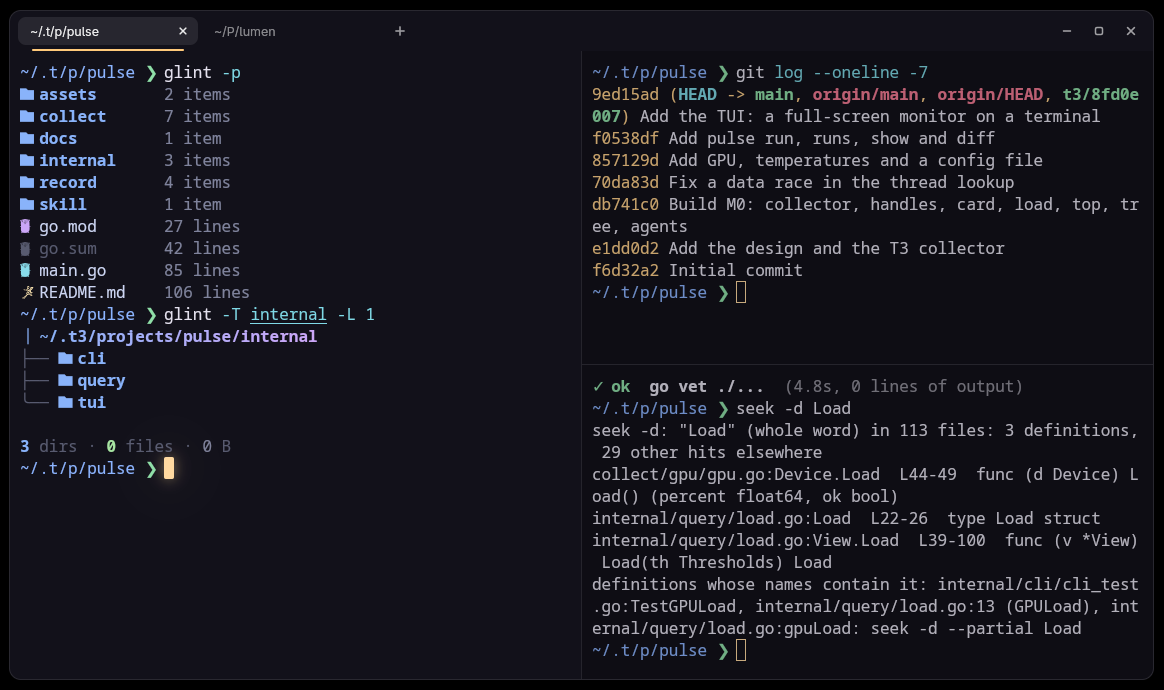
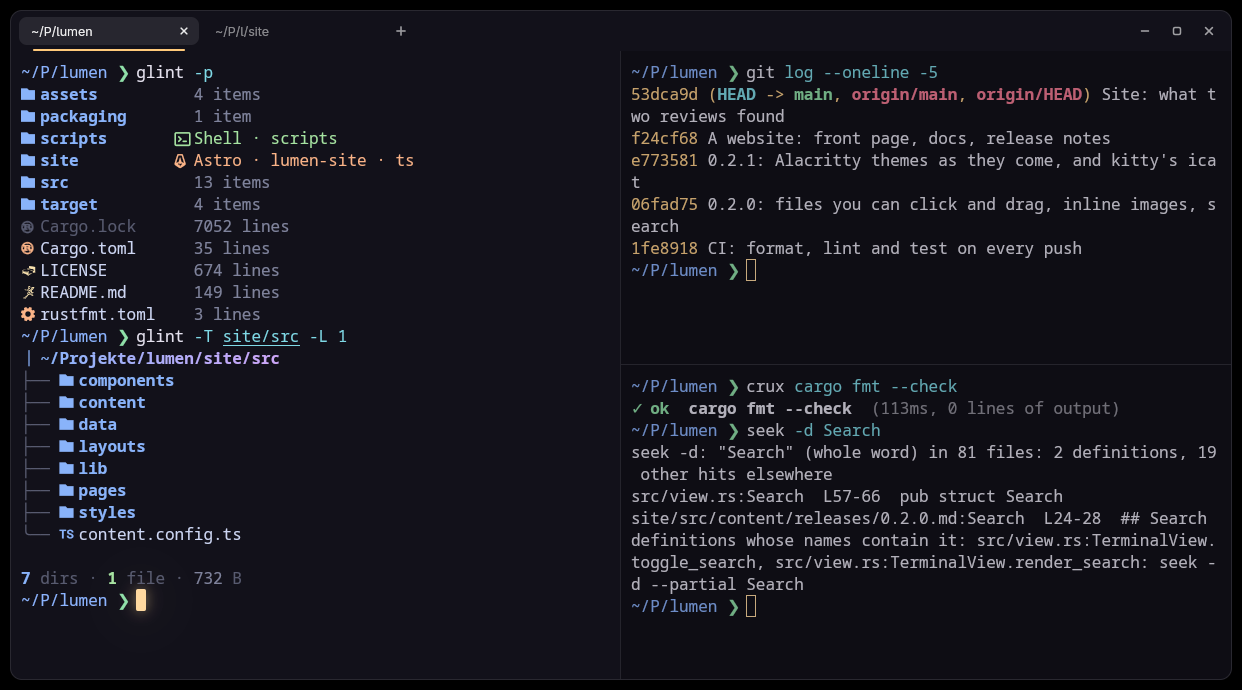
A screenshot taken in lumen's own repo
The picture in the README and on the site showed another project's
folders and commits. This one shows lumen's.

diff --git a/site/src/content/docs/index.md b/site/src/content/docs/index.md
@@ -6,7 +6,7 @@ description: A terminal for Linux that knows what your tools print, and lets you
 
 lumen is a terminal emulator for Linux. It is drawn by the graphics card, has tabs and splits built in, and runs on Wayland and X11.
 
-![lumen with two tabs and three panes: a file listing, a git log, and the results of a test run and a code search](/shots/panes.png)
+![lumen with two tabs and three panes: a file listing, a git log, and the results of a format check and a code search](/shots/panes.png)
 
 What sets it apart is one idea: **the screen is not only text**. When a tool prints the name of a file, a picture or a link, most terminals draw the characters and stop there. lumen knows what they are.
 
